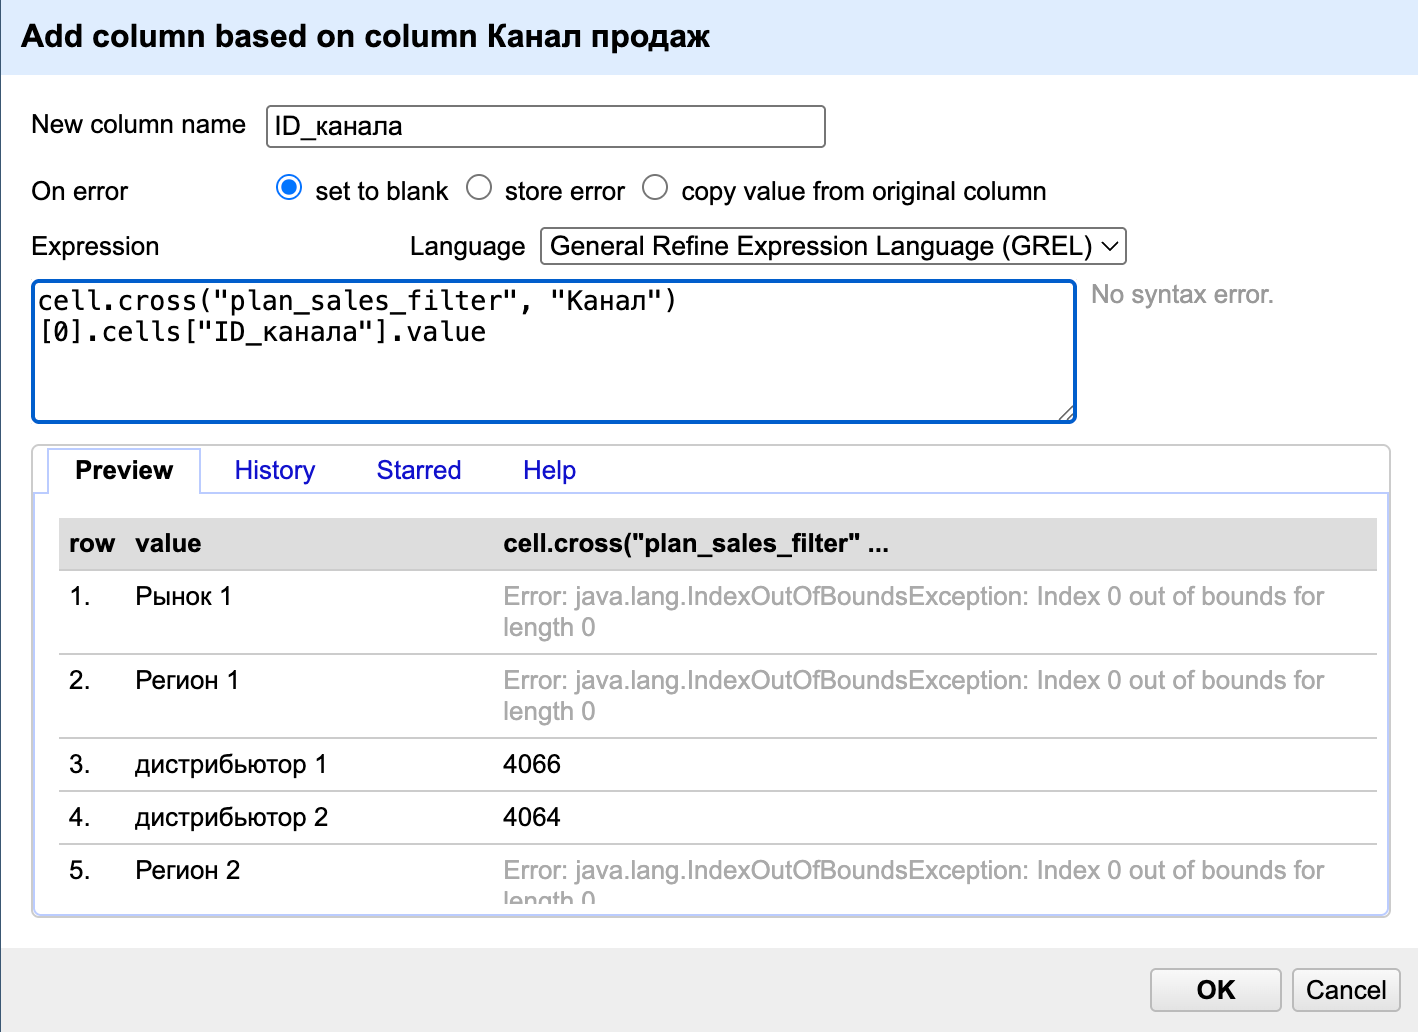
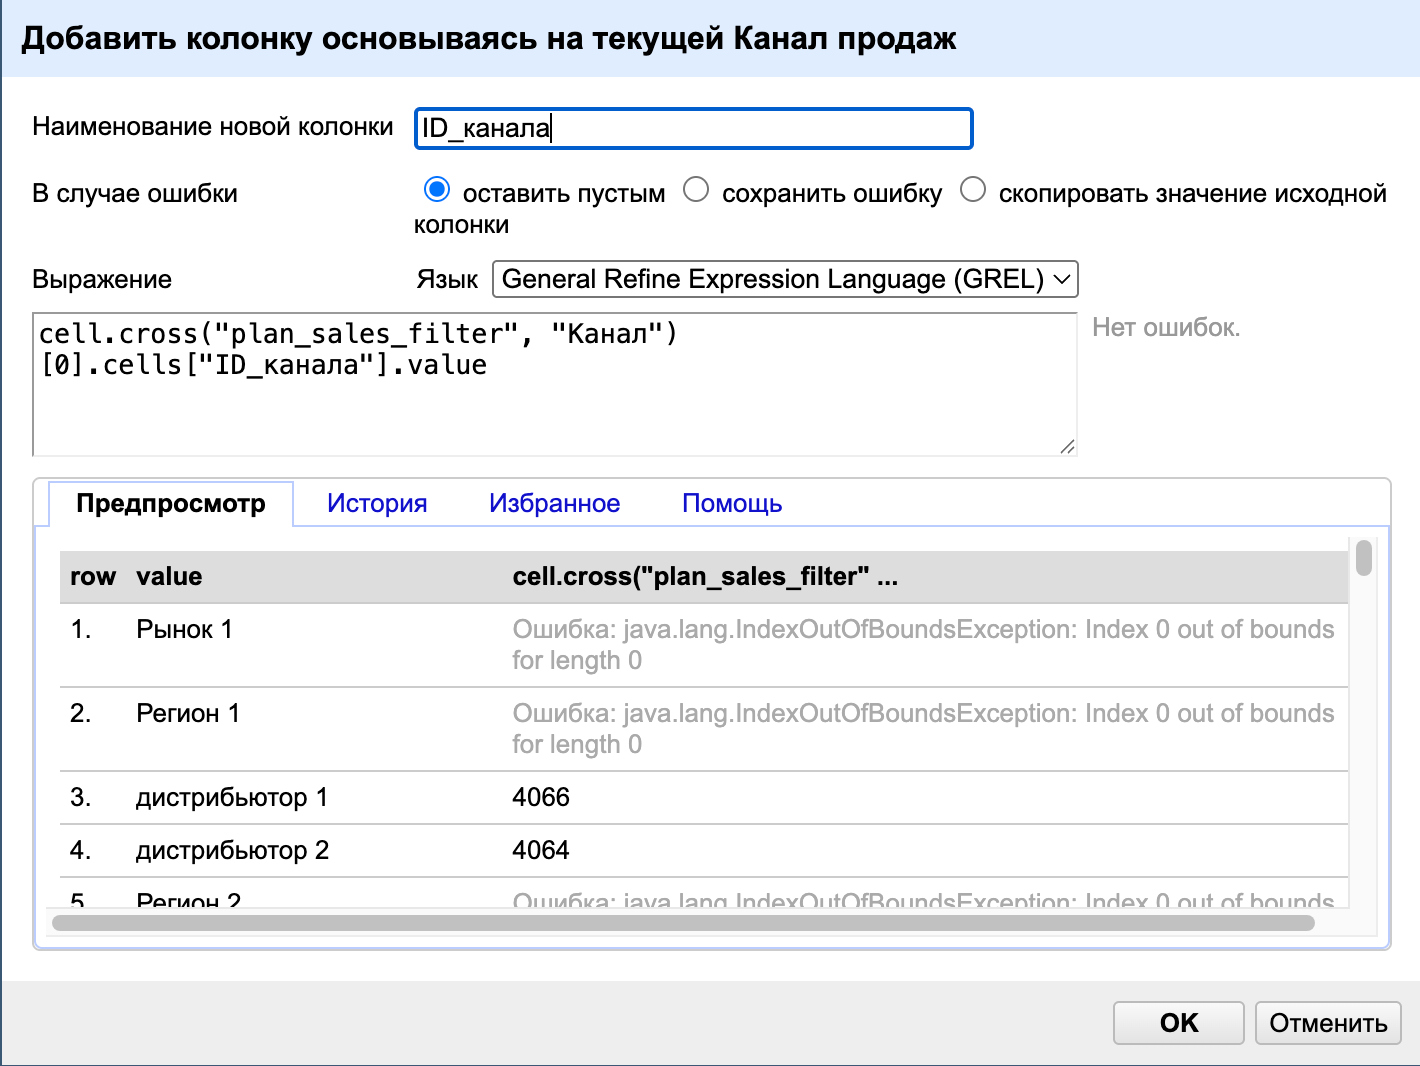
fix(excel_import): russian language

diff --git a/README.md b/README.md
@@ -176,7 +176,7 @@ if(
 - Создаём колонку на основе Канала продаж
 ![img](img/add_new_column_based_on_sales_channel.png)
 
-- Прописываем название
+- Прописываем название ID_канала
 ```
 cell.cross("plan_sales_filter", "Канал")[0].cells["ID_канала"].value
 ```
